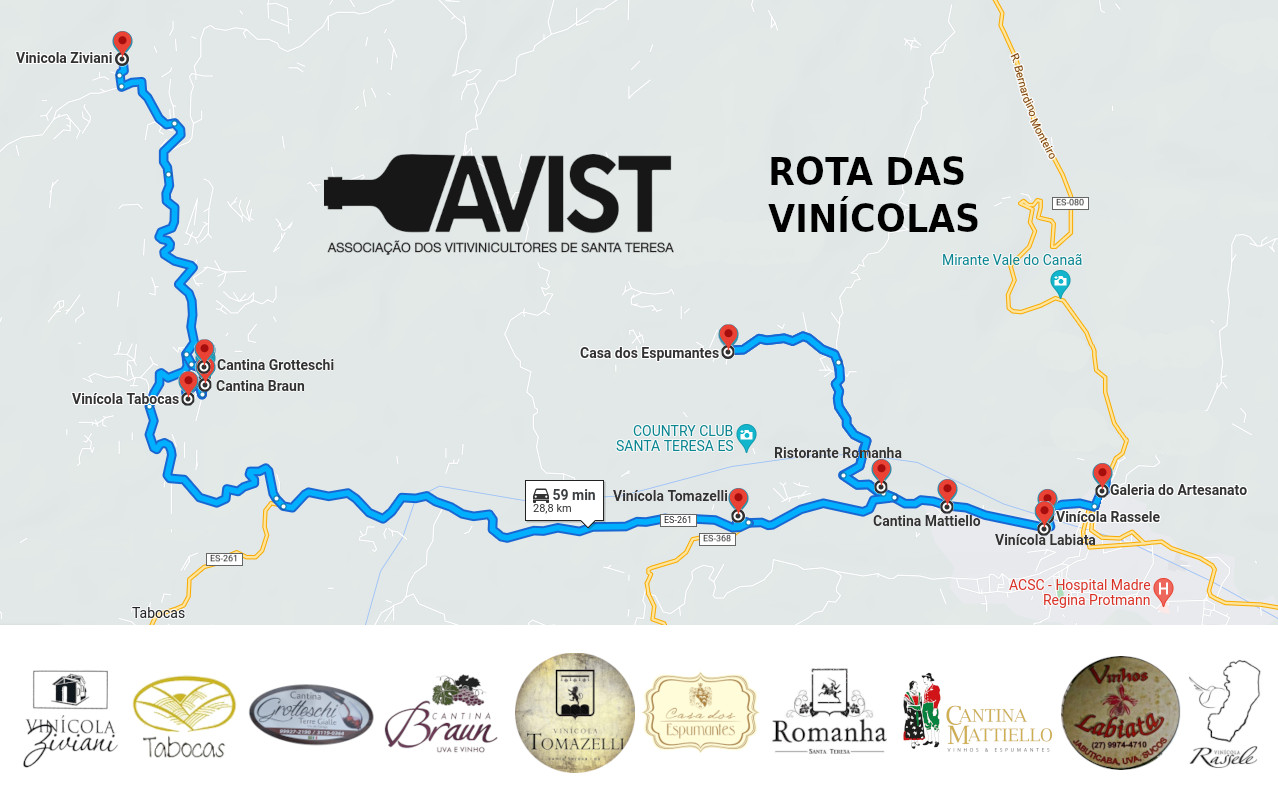
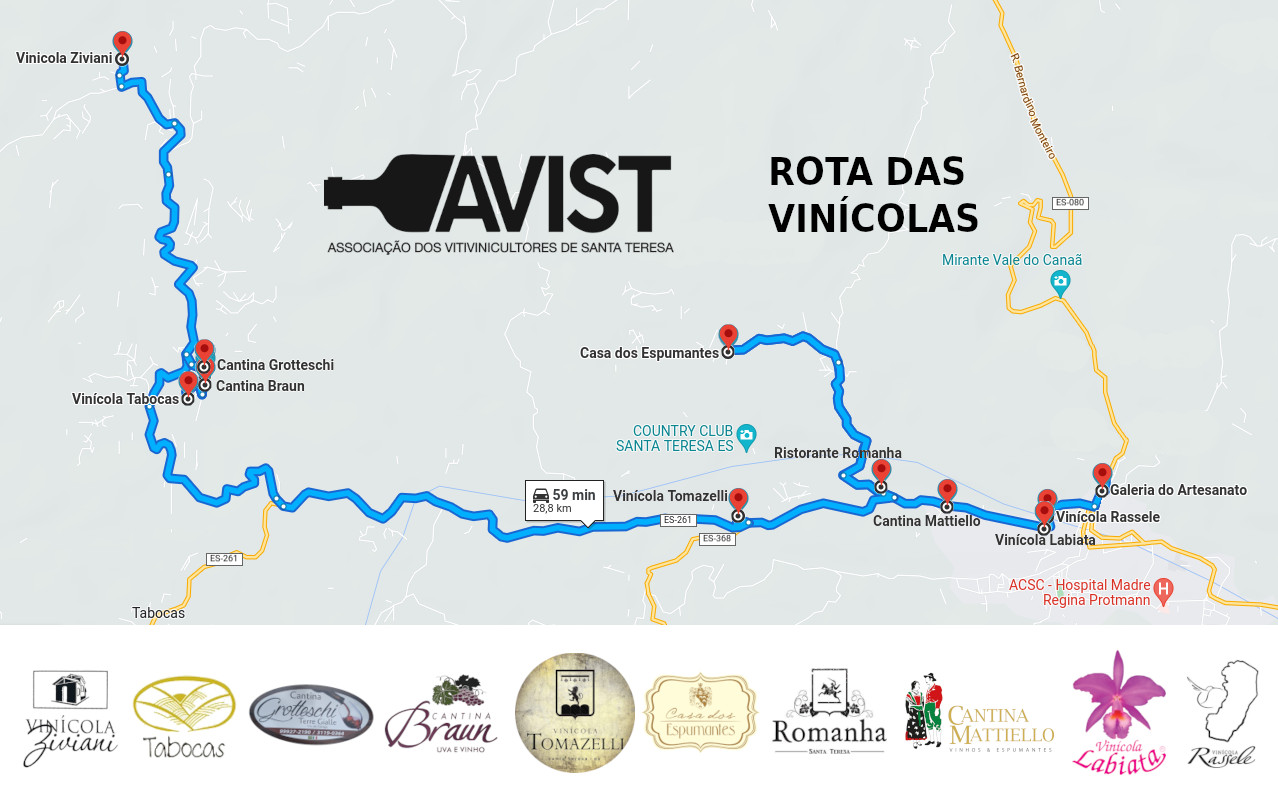
Ajustes em Romanha, Labiata e Braun
Ajustes no Email de Romanha.
Ajustes no horário e logomarca da Labiata.
Ajustes no contato e foto principal da Braun.
Ajuste no mapa com as logomarcas.

Changed region(s): [[0.7019, 0.8125, 1.0, 0.9688]]

diff --git a/database/seeders/EmpresaContatosSeeder.php b/database/seeders/EmpresaContatosSeeder.php
@@ -174,6 +174,13 @@ class EmpresaContatosSeeder extends Seeder
             ],
             [
                 'empresa_id'      => $empresa,
+                'contato_tipo_id' => 1, // Telefone Fixo
+                'descricao'       => '27999919045',
+                'created_at' => $data,
+                'updated_at' => $data,
+            ],
+            [
+                'empresa_id'      => $empresa,
                 'contato_tipo_id' => 2, // Whatsapp
                 'descricao'       => '27999744710',
                 'created_at' => $data,
@@ -334,7 +341,7 @@ class EmpresaContatosSeeder extends Seeder
             [
                 'empresa_id'      => $empresa,
                 'contato_tipo_id' => 3, // Email
-                'descricao'       => 'ristoranteromanhast@yahoo.com.br',
+                'descricao'       => 'steven.fontana@hotmail.com', //ristoranteromanhast@yahoo.com.br',
                 'created_at' => $data,
                 'updated_at' => $data,
             ],
@@ -517,7 +524,21 @@ class EmpresaContatosSeeder extends Seeder
             [
                 'empresa_id'      => $empresa,
                 'contato_tipo_id' => 1, // Telefone Fixo
+                'descricao'       => '27999852400',
+                'created_at' => $data,
+                'updated_at' => $data,
+            ],
+            [
+                'empresa_id'      => $empresa,
+                'contato_tipo_id' => 1, // Telefone Fixo
                 'descricao'       => '27998094127',
+                'created_at' => $data,
+                'updated_at' => $data,
+            ],
+            [
+                'empresa_id'      => $empresa,
+                'contato_tipo_id' => 2, // Whatsapp
+                'descricao'       => '27999852400',
                 'created_at' => $data,
                 'updated_at' => $data,
             ],
@@ -817,7 +838,7 @@ class EmpresaContatosSeeder extends Seeder
             [
                 'empresa_id'      => $empresa,
                 'contato_tipo_id' => 3, // Email
-                'descricao'       => 'ristoranteromanhast@yahoo.com.br',
+                'descricao'       => 'steven.fontana@hotmail.com',
                 'created_at' => $data,
                 'updated_at' => $data,
             ],

diff --git a/database/seeders/EmpresaImagemsSeeder.php b/database/seeders/EmpresaImagemsSeeder.php
@@ -164,7 +164,7 @@ class EmpresaImagemsSeeder extends Seeder
             ],
         ]);
         $ordem = $empresa_id * 10000 + 2; // Para iniciar no '4'
-        for ($i=2; $i <= 20; $i++) { 
+        for ($i=2; $i <= 21; $i++) { 
             $foto = sprintf("%'.04d", $i);
             DB::table('empresa_imagems')->insert([
                 [
@@ -423,7 +423,7 @@ class EmpresaImagemsSeeder extends Seeder
             ],
         ]);
         $ordem = $empresa_id * 10000 + 2; // Para iniciar no '4'
-        for ($i=2; $i <= 33; $i++) { 
+        for ($i=2; $i <= 32; $i++) { 
             $foto = sprintf("%'.04d", $i);
             DB::table('empresa_imagems')->insert([
                 [

diff --git a/database/seeders/EmpresaServicosSeeder.php b/database/seeders/EmpresaServicosSeeder.php
@@ -53,9 +53,10 @@ class EmpresaServicosSeeder extends Seeder
             [
                 'empresa_id' => $empresa,
                 'nome'       => 'Expediente',
-                'descricao'  => '',
+                'descricao'  => 'De Terça-feira a Domingo',
                 'hiperlink'  => '',
-                'horario'    => 'Das', // Pendente
+                'horario'    => 'Das 8h às 17h (Favor chamar pela campainha ao lado).
+                ', // Pendente
                 'ativo'      => true,
                 'created_at' => $data,
                 'updated_at' => $data,
